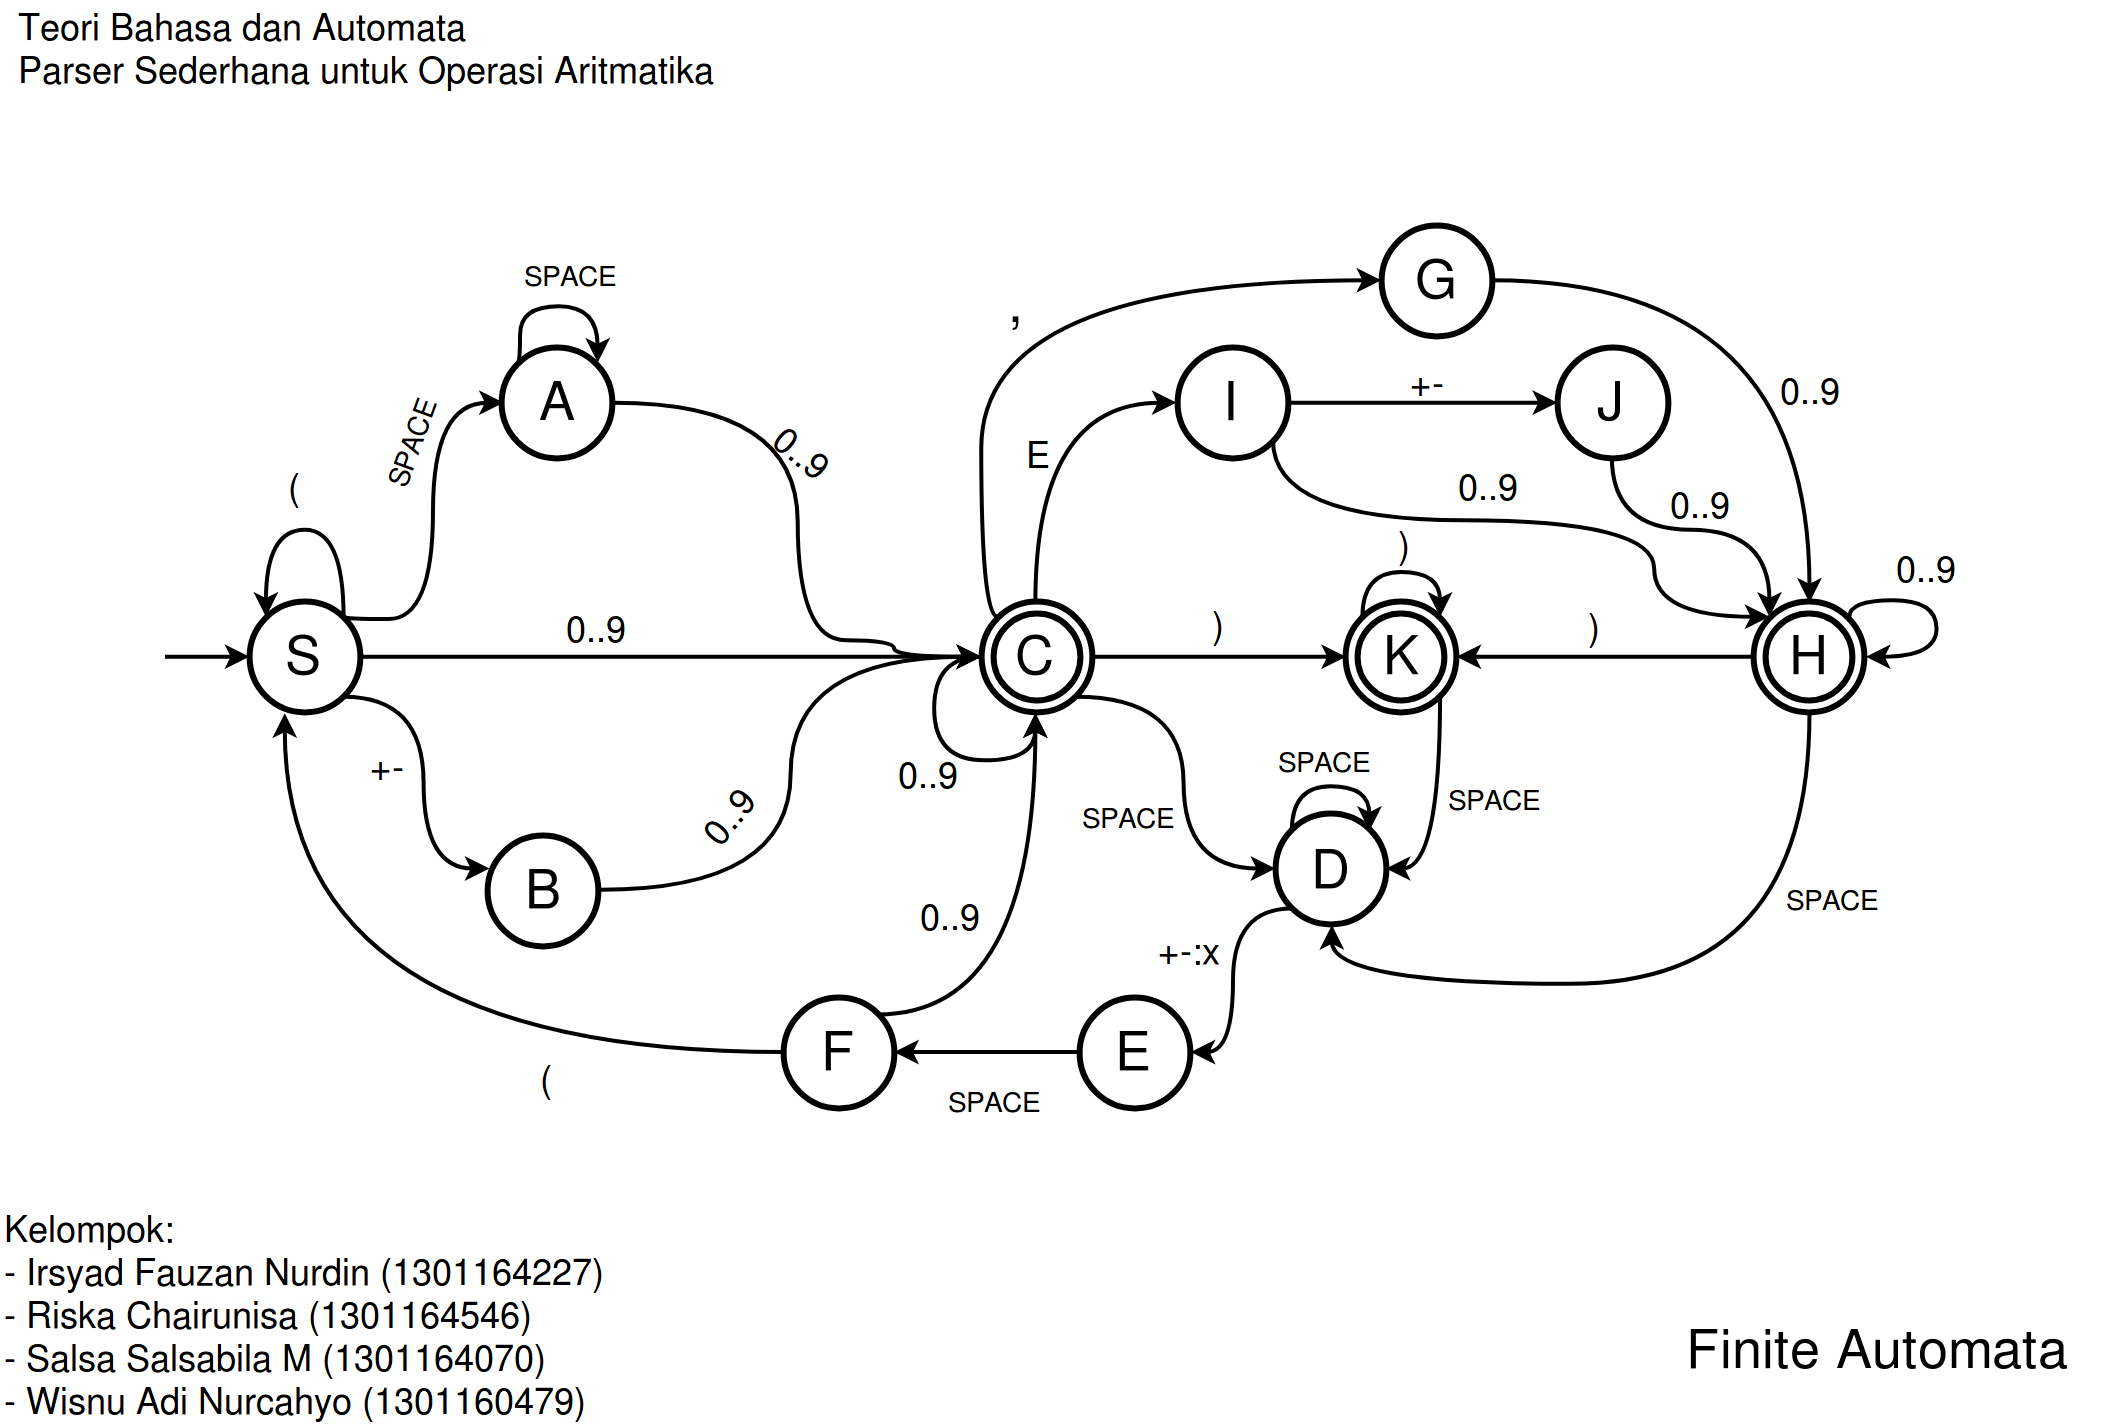
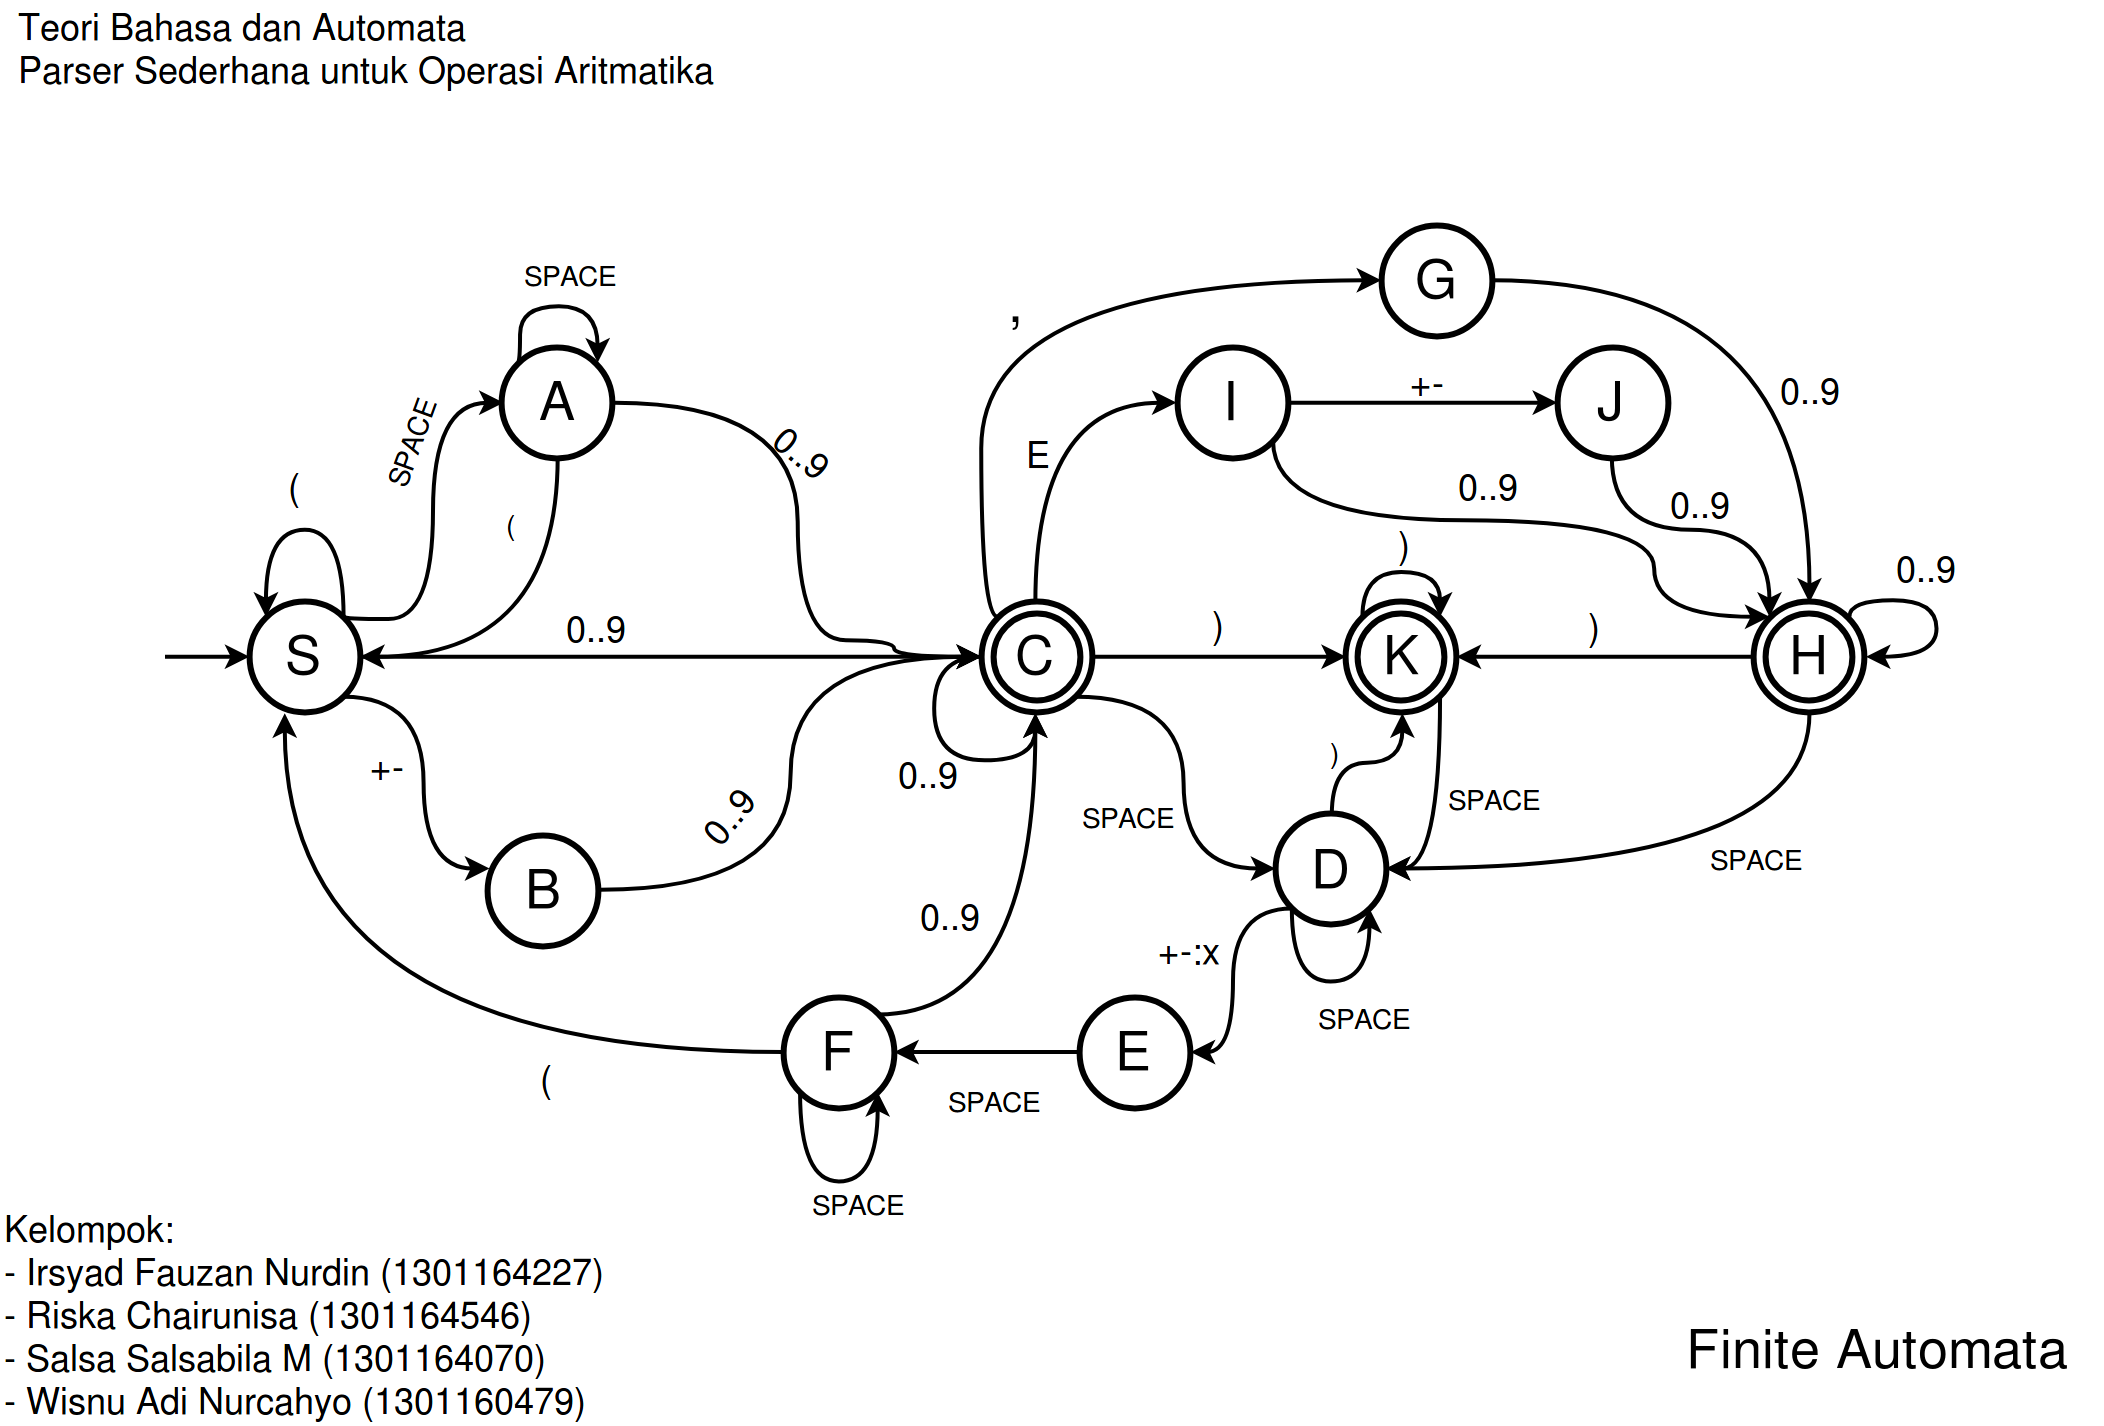
Allow spaces

diff --git a/parser.cpp b/parser.cpp
@@ -243,6 +243,15 @@ void A(Runner& runner, Parsec& parsec) {
 
       C(runner, parsec);
     }
+    else if (isOpenBracket(h))
+    {
+      parsec.brackets++;
+
+      Token token ("KURBUKA", "(");
+      parsec.tokens.push_back(token);
+
+      S(runner, parsec);
+    }
     else
     {
       Token token ("ERROR", "");
@@ -357,6 +366,19 @@ void D(Runner& runner, Parsec& parsec) {
 
       E(runner, parsec);
     }
+    else if (isCloseBracket(h))
+    {
+      parsec.brackets--;
+
+      Token token ("", ")");
+      token.type = parsec.brackets < 0 ? "ERROR" : "KURTUTUP";
+
+      if (parsec.brackets < 0) parsec.validity = false;
+
+      parsec.tokens.push_back(token);
+
+      K(runner, parsec);
+    }
     else
     {
       Token token ("ERROR", "");
@@ -378,7 +400,7 @@ void E(Runner& runner, Parsec& parsec) {
       parsec.tokens.push_back(token);
 
       runner.tmp = "";
-      
+
       F(runner, parsec);
     }
     else
@@ -413,6 +435,8 @@ void F(Runner& runner, Parsec& parsec) {
 
       S(runner, parsec);
     }
+    else if (isSpace(h))
+      F(runner, parsec);
     else
     {
       Token token ("ERROR", "");
